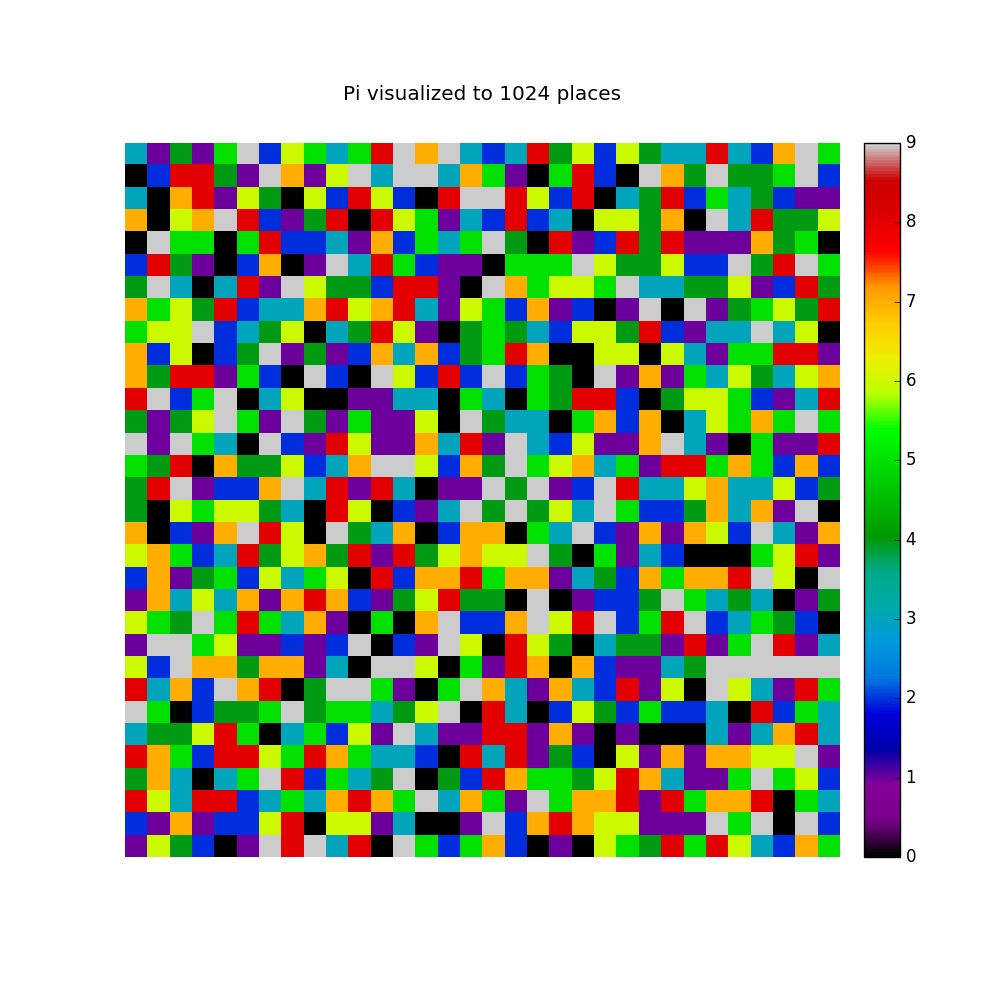
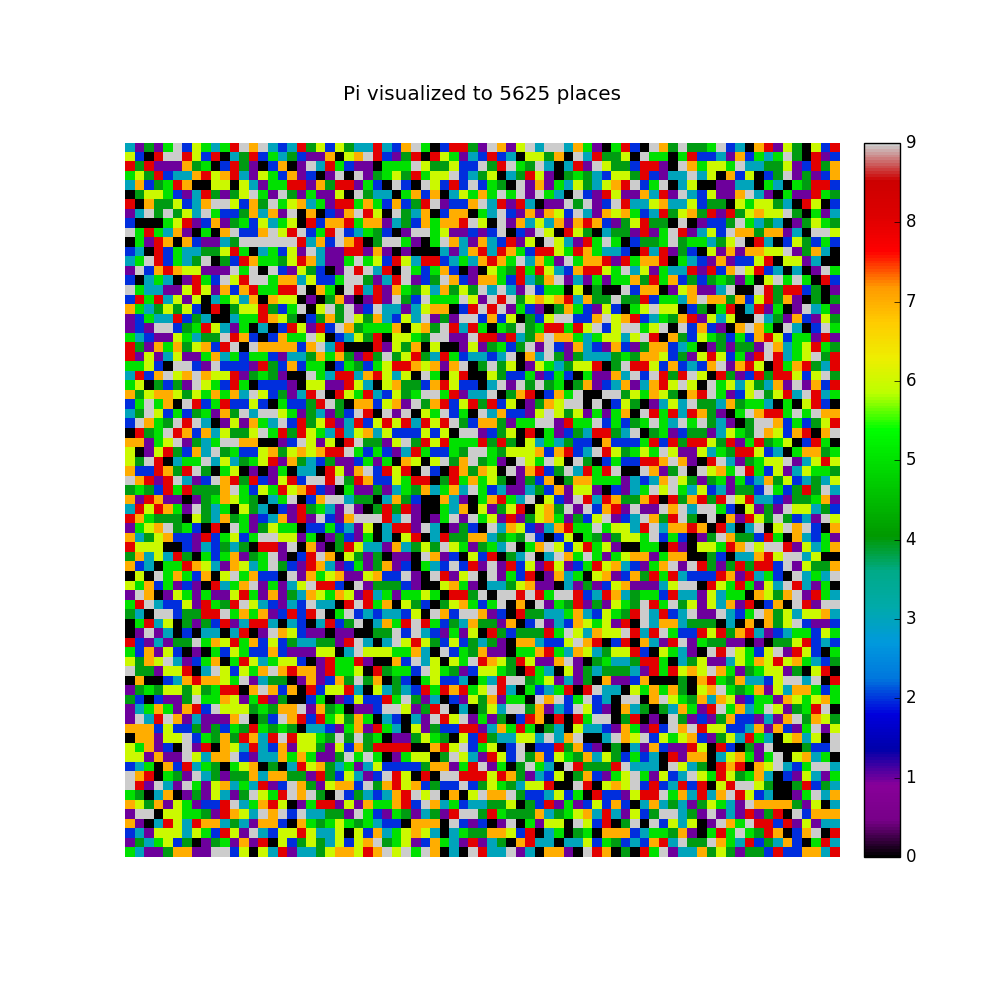
pi day update

diff --git a/_posts/2016-03-14-pi-day.md b/_posts/2016-03-14-pi-day.md
@@ -7,7 +7,9 @@ categories: snippets
 
 Happy Pi day! As is the tradition at the University of Maryland (and to a certain extent, in my family) we are celebrating March 14 with pie and Pi. A shoutout to [@konstantinosx](https://github.com/konstantinosx/) who, during last year's Pi day, requested blueberry pie, which was the strangest pie request I've received for Pi day. Not that blueberry pie is strange, just that someone would want one so badly for Pi day (he got a mixed berry pie).
 
-In honor of Pi day, I've utilized some of my time to create a grid visualization of the digits of Pi, computed using the [Chudnovsky algorithm](https://en.wikipedia.org/wiki/Chudnovsky_algorithm) with Python. The grid is displayed using some simple matplotlib code (yes, this is what "simple" matplotlib code looks like). When I say "utilized some of my time" I mean that it took 16.052 seconds to compute out the first 1,024 digits. That may not seem too long, but I quit the first 10,000 digits after it had been running for ten minutes. (I'll repost if I get it). Here is the result:
+In honor of Pi day, I've utilized some of my time to create a grid visualization of the digits of Pi, computed using the [Chudnovsky algorithm](https://en.wikipedia.org/wiki/Chudnovsky_algorithm) with Python. The grid is displayed using some simple matplotlib code (yes, this is what "simple" matplotlib code looks like). When I say "utilized some of my time" I mean that it took 16.052 seconds to compute out the first 1,024 digits. That may not seem too long, but I quit the first 10,000 digits after it had been running for ten minutes. (I'll repost if I get it).
+
+**UPDATE 1**: 5,625 digits took 3053.405 seconds (about 51 minutes) on my Macbook Pro. (10k digits running now) Here is the figure for that result:
 
 ![Grid visualization of the digits of Pi](/assets/images/2016-03-14-pi-grid.png)
 
